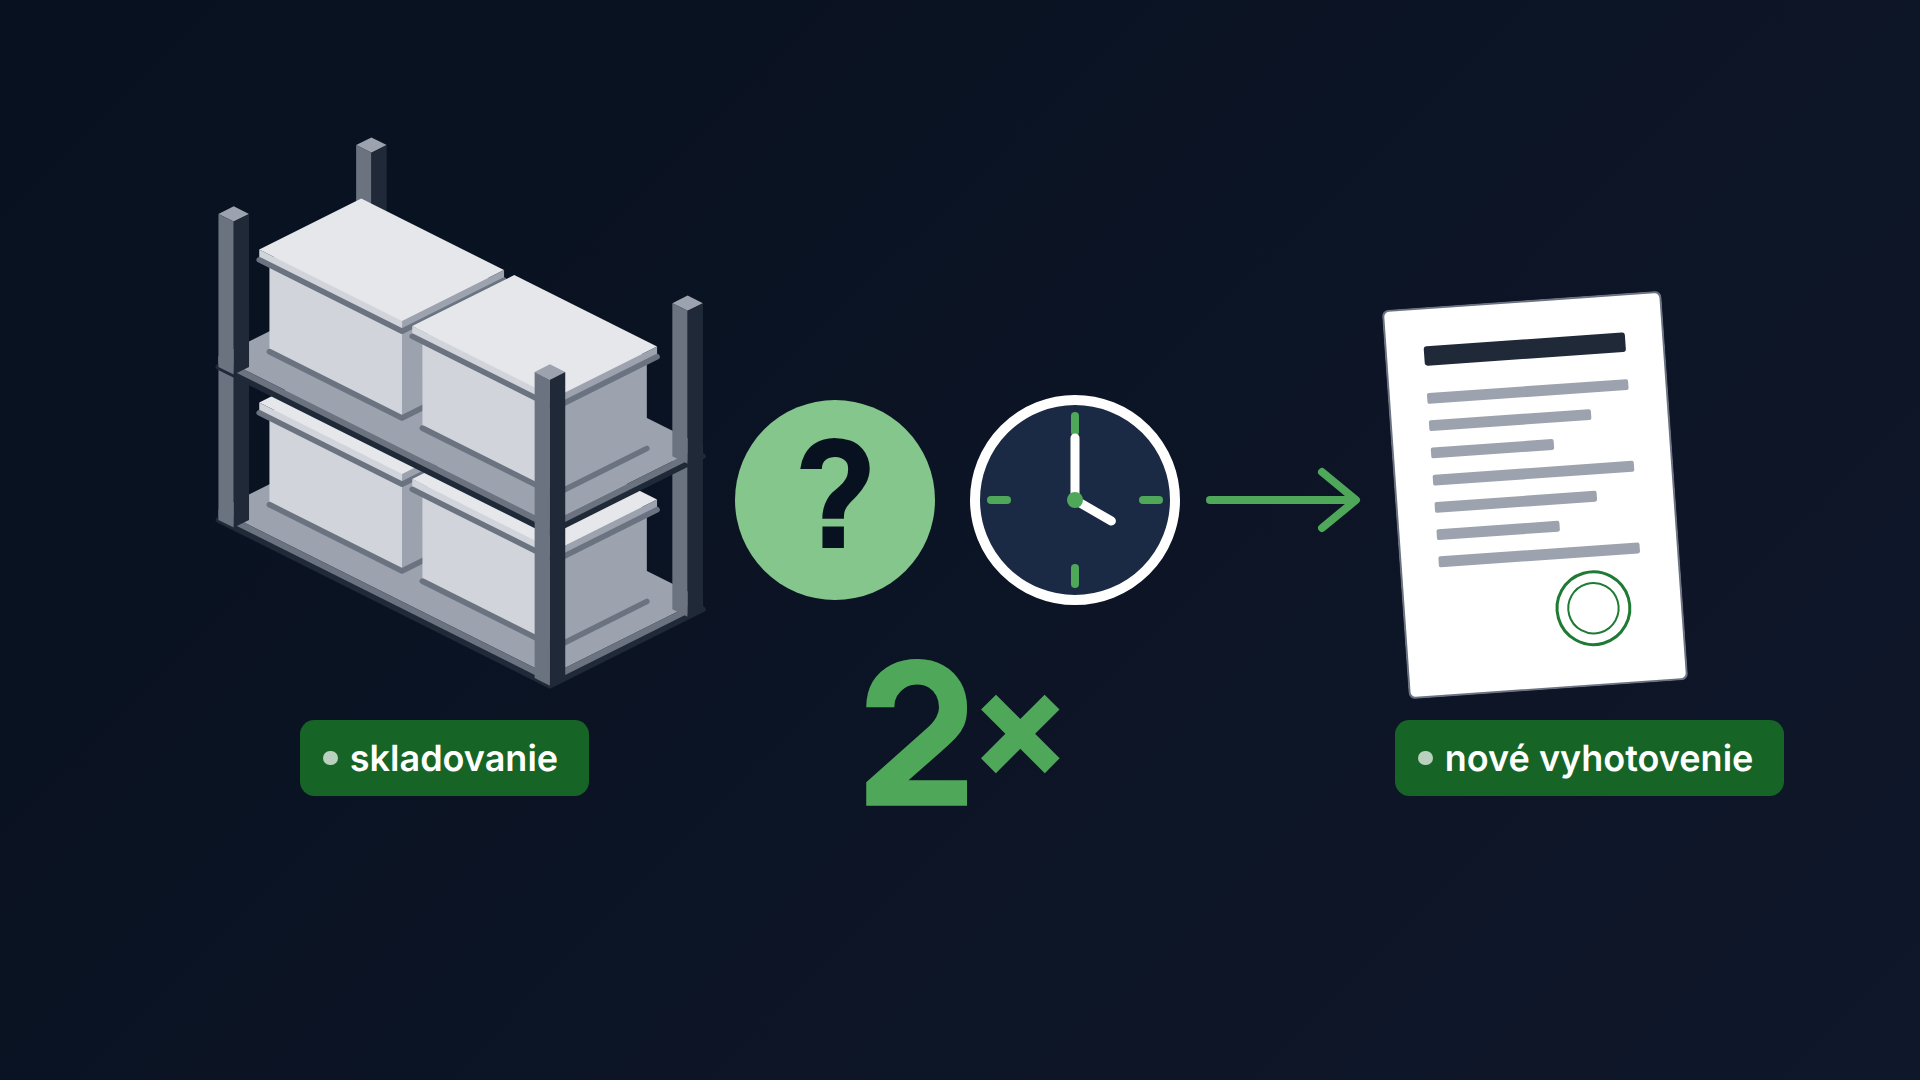
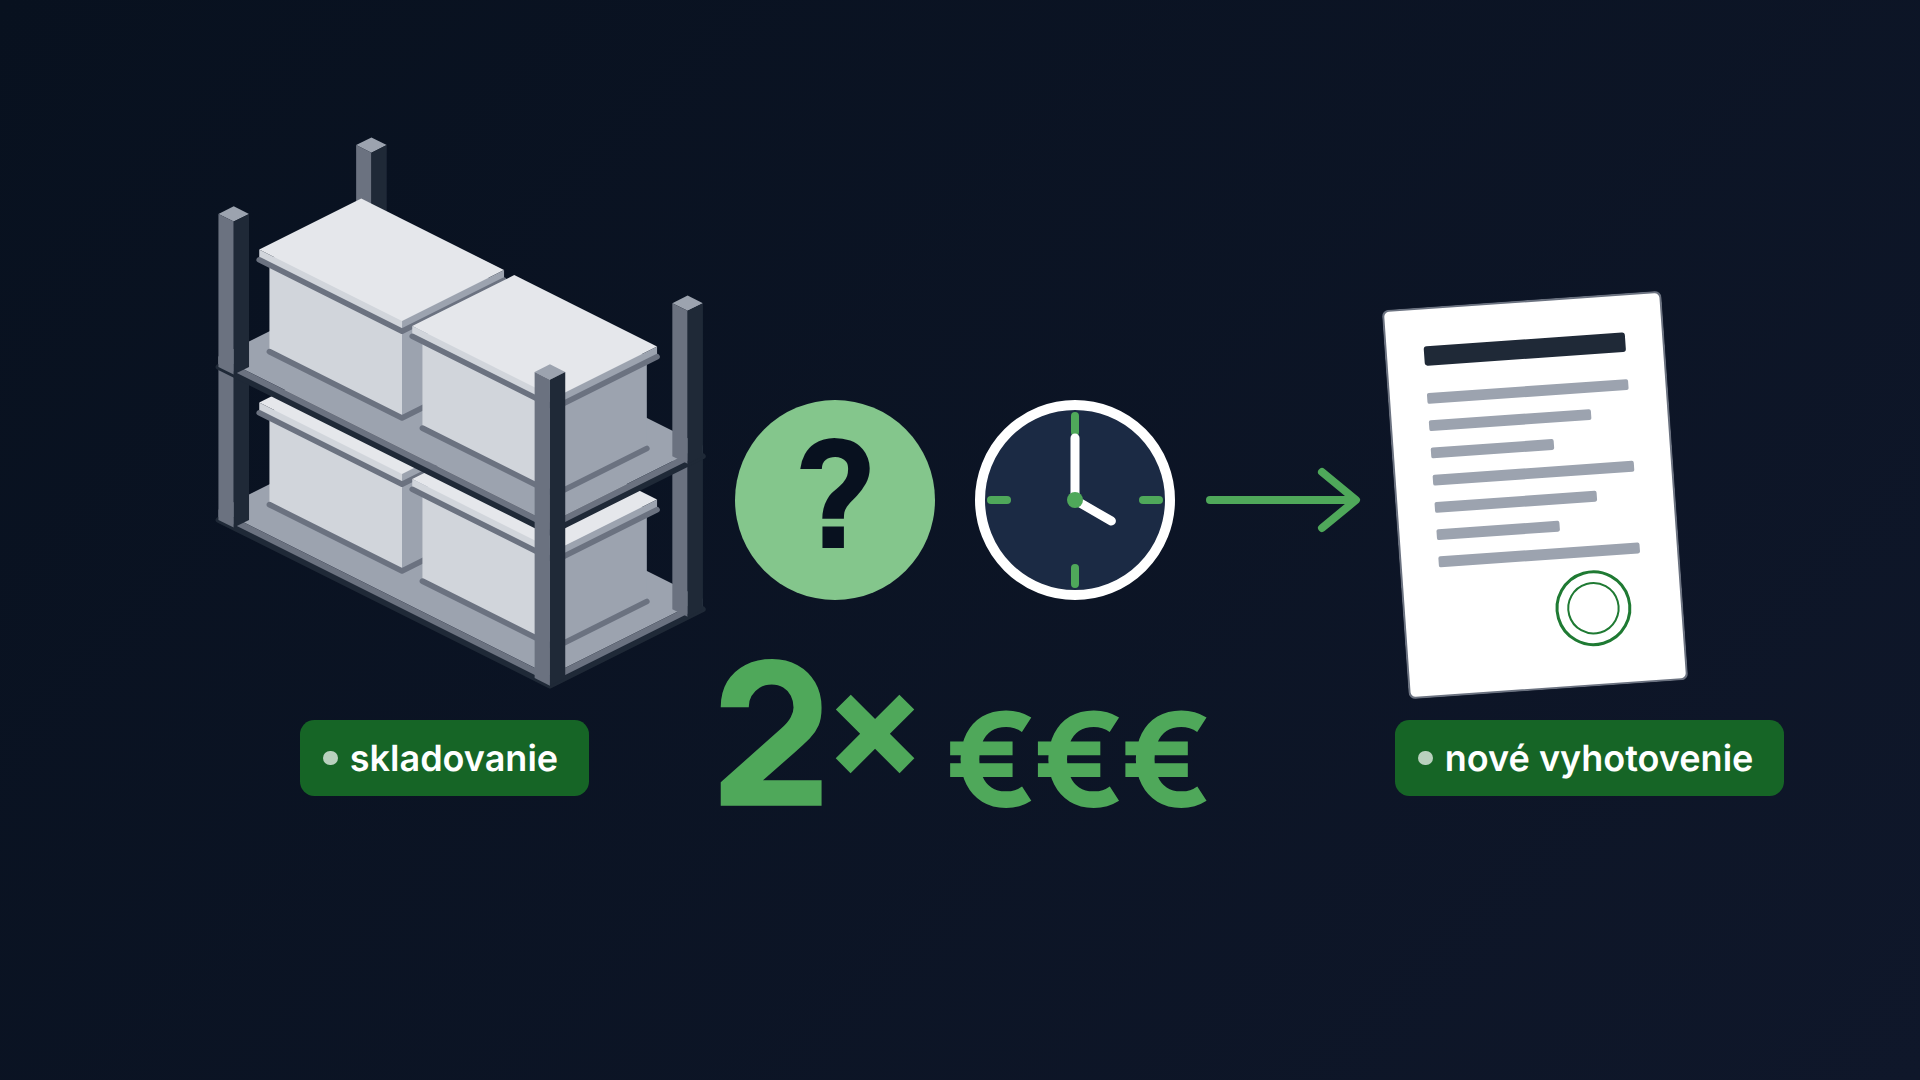
Kolo 16: C3 sklad hneď na scéne (13 s), C4 rovnaké kruhy + 2× €€€, C5 menšie QR nálepky, C7 označenia dokumentov
Claude-Session: https://claude.ai/code/session_0174g5XfE49UzAEjnWwaQFuK

diff --git a/video/src/scenes/C3_Sklad.tsx b/video/src/scenes/C3_Sklad.tsx
@@ -13,7 +13,7 @@ import { BRAND, CM, SAFE } from '../theme';
  * C3 - Sklad -> regal. Siroky zaber (regaly, palety, postavicka kluckuje
  * ulickou, cesta pod objektmi, "?"), kamera najde na policu s dvoma krabicami:
  * prva sa otvori, zlozky sa postupne vyberu a vratia, zatvori sa; to iste
- * druha; nic sa nenaslo, "?" nad regalom. Koniec = zaciatok C4. 14 s.
+ * druha; nic sa nenaslo, "?" nad regalom. Sklad je na scene hned. Koniec = zaciatok C4. 13 s.
  */
 export const SV = 1.7;
 export const VB = { x: -565, y: -100 };
@@ -85,7 +85,7 @@ export const SEARCH_QMS: [number, number, number, number][] = (() => {
   const s = TARGET_SHELF;
   const top = SHELF_LEVEL * CM.shelf.level + 4 + CM.carton.h + 4;
   const out: [number, number, number, number][] = [];
-  [7200, 10400].forEach((start, k) => {
+  [6200, 9400].forEach((start, k) => {
     const cx = s.x + 8 + k * 60 + 26,
       cy = s.y + 12 + 18;
     // jedna bublinka na krabicu, pri vytiahnuti prvej zlozky
@@ -98,8 +98,8 @@ export const C3_Sklad: React.FC = () => {
   const frame = useCurrentFrame();
   const showCap = useCaptions();
   const tw = (s: number, d: number) => tween(frame, s, d);
-  const appear = settle(frame, 400);
-  const walk = tw(1500, 4500);
+  const appear = tw(0, 300);
+  const walk = tw(600, 4500);
   const seg = Math.min(PATH.length - 2, Math.floor(walk * (PATH.length - 1)));
   const lt = walk * (PATH.length - 1) - seg;
   const px = PATH[seg][0] + (PATH[seg + 1][0] - PATH[seg][0]) * lt;
@@ -108,13 +108,13 @@ export const C3_Sklad: React.FC = () => {
   const walked: [number, number][] = [...PATH.slice(0, seg + 1), [px, py]];
   const pathD = walked.map(([x, y], i) => `${i ? 'L' : 'M'}${iso(x, y, 0).join(' ')}`).join(' ');
   const qm: [number, number, number, number][] = [
-    [140, 60, 2600, 0],
-    [420, 60, 4200, 80],
+    [140, 60, 1700, 0],
+    [420, 60, 3300, 80],
   ];
-  const others = 1 - tw(6800, 500); // vsetko okrem cieloveho regalu zmizne
-  const A = searchBox(tw, 7200);
-  const B = searchBox(tw, 10400);
-  const qEnd = pop(frame, 13300);
+  const others = 1 - tw(5800, 500); // vsetko okrem cieloveho regalu zmizne
+  const A = searchBox(tw, 6200);
+  const B = searchBox(tw, 9400);
+  const qEnd = pop(frame, 12300);
 
   const Stack: React.FC<{ x: number; y: number }> = ({ x, y }) => (
     <g>
@@ -129,14 +129,14 @@ export const C3_Sklad: React.FC = () => {
 
   return (
     <Scene mode="dark">
-      <Camera keys={[{ ms: 6000, x: 0, y: 0, scale: 1 }, { ms: 8000, ...CAM_END }]}>
+      <Camera keys={[{ ms: 5000, x: 0, y: 0, scale: 1 }, { ms: 7000, ...CAM_END }]}>
         <svg width={1920} height={1080} viewBox={`${VB.x} ${VB.y} ${1920 / SV} ${1080 / SV}`} style={{ position: 'absolute', left: 0, top: 0, opacity: appear, transform: `translateY(${(1 - appear) * 30}px)` }}>
           <g opacity={others}>
             <Floor x={-60} y={-60} w={560} d={560} fill="#263246" edge="#131F31" />
             <path d={pathD} fill="none" stroke={BRAND[300]} strokeWidth={2.4} strokeDasharray="6 8" strokeLinecap="round" strokeLinejoin="round" opacity={0.9} />
           </g>
           {SHELVES.map((s, i) => {
-            const t = settle(frame, 600 + i * 140);
+            const t = 1; // sklad je na scene hned (ako kancelaria v C2)
             const isTarget = s === TARGET_SHELF;
             return (
               <g key={i} transform={`translate(0 ${(1 - t) * -30})`} opacity={t * (isTarget ? 1 : others)}>
@@ -172,7 +172,7 @@ export const C3_Sklad: React.FC = () => {
           })}
           <g opacity={others}>
             {PALLETS.map((p, i) => {
-              const t = settle(frame, 1000 + i * 140);
+              const t = 1;
               return (
                 <g key={i} transform={`translate(0 ${(1 - t) * -30})`} opacity={t}>
                   <Stack x={p.x} y={p.y} />
@@ -180,19 +180,19 @@ export const C3_Sklad: React.FC = () => {
               );
             })}
             {qm.map(([x, y, s0, z], i) => {
-              const s = pop(frame, s0) * (1 - tw(6000, 600));
+              const s = pop(frame, s0) * (1 - tw(5000, 600));
               const [qx, qy] = iso(x, y, 140 + z);
               return <QuestionMark key={i} x={qx} y={qy} s={s * 1.8} />;
             })}
           </g>
-          <Person x={sx} y={sy} scale={1.4} color={BRAND[400]} opacity={tw(1400, 300) * (1 - tw(6500, 800))} />
+          <Person x={sx} y={sy} scale={1.4} color={BRAND[400]} opacity={tw(500, 300) * (1 - tw(5500, 800))} />
         </svg>
       </Camera>
 
       {showCap ? (
         <>
-          <Caption text={captions.C3a} mode="dark" t={settle(frame, 4000)} out={tw(6300, 300)} y={SAFE.captionY} />
-          <Caption text={captions.C3b} mode="dark" t={settle(frame, 11500)} y={SAFE.captionY} />
+          <Caption text={captions.C3a} mode="dark" t={settle(frame, 3000)} out={tw(5300, 300)} y={SAFE.captionY} />
+          <Caption text={captions.C3b} mode="dark" t={settle(frame, 10500)} y={SAFE.captionY} />
         </>
       ) : null}
     </Scene>

diff --git a/video/src/scenes/C7_Hierarchia.tsx b/video/src/scenes/C7_Hierarchia.tsx
@@ -62,7 +62,7 @@ export const C7_Hierarchia: React.FC = () => {
   const bigTop = SAFE.illoTop - 40 + (nodeTop - (SAFE.illoTop - 40)) * zoomOut;
 
   const sib = [[], [-SIB, SIB], [-SIB, SIB], [-SIB, SIB]];
-  const Node: React.FC<{ level: number; x: number; y: number; main?: boolean; t: number; q: number }> = ({ level, x, y, main, t, q }) => {
+  const Node: React.FC<{ level: number; x: number; y: number; main?: boolean; t: number; q: number; docId?: string }> = ({ level, x, y, main, t, q, docId }) => {
     const dim = main ? 1 : 0.55 + 0.45 * (1 - glow);
     return (
       <g transform={`translate(${x} ${y}) translate(0 ${(1 - t) * -20})`} opacity={t * dim}>
@@ -117,6 +117,10 @@ export const C7_Hierarchia: React.FC = () => {
             <g>
               <IsoBox x={-10} y={-15} z={0} w={21} d={30} h={1} faces={{ top: '#fff', left: ISO.right, right: ISO.edge }} />
               <QrOnLeftFace x={-4} y={15} z={-3} size={8} s={q} />
+              {/* oznacenie dokumentu */}
+              <text x={0} y={46} textAnchor="middle" fontFamily="ui-monospace, Menlo, monospace" fontSize={18} fill={INK[500]} opacity={q}>
+                {docId}
+              </text>
             </g>
           )}
         </g>
@@ -145,9 +149,9 @@ export const C7_Hierarchia: React.FC = () => {
             i === 1 ? null : (
               <g key={i}>
                 {sib[i].map((dx, k) => (
-                  <Node key={k} level={i} x={NODE_X + dx} y={ny} t={lvl(i)} q={qr(i) * 0.9} />
+                  <Node key={k} level={i} x={NODE_X + dx} y={ny} t={lvl(i)} q={qr(i) * 0.9} docId={['DK_06', 'DK_08'][k]} />
                 ))}
-                <Node level={i} x={NODE_X} y={ny} main t={lvl(i)} q={qr(i)} />
+                <Node level={i} x={NODE_X} y={ny} main t={lvl(i)} q={qr(i)} docId="DK_07" />
               </g>
             ),
           )}

diff --git a/video/src/scenes/C4_Cena.tsx b/video/src/scenes/C4_Cena.tsx
@@ -56,7 +56,7 @@ export const C4_Cena: React.FC = () => {
       </svg>
       {/* hodiny v strede medzery medzi regalom a vykresom */}
       <svg width={240} height={240} viewBox="-120 -120 240 240" style={{ position: 'absolute', left: 955, top: 380, opacity: clock, transform: `scale(${0.6 + 0.4 * clock})` }}>
-        <circle r={100} fill="#1B2A44" stroke="#fff" strokeWidth={10} />
+        <circle r={95} fill="#1B2A44" stroke="#fff" strokeWidth={10} />
         {[0, 90, 180, 270].map((a) => (
           <line key={a} x1={0} y1={-84} x2={0} y2={-68} stroke={BRAND[400]} strokeWidth={8} strokeLinecap="round" transform={`rotate(${a})`} />
         ))}
@@ -79,9 +79,10 @@ export const C4_Cena: React.FC = () => {
       <div style={{ position: 'absolute', left: 1395, top: 720 }}>
         <PriceTag text="nové vyhotovenie" s={tagB} color={BRAND[700]} size={36} />
       </div>
-      {/* 2x dole v strede, medzi cenovkami */}
-      <div style={{ position: 'absolute', left: 0, right: 0, top: 640, textAlign: 'center', opacity: big, transform: `scale(${0.6 + 0.4 * big})` }}>
+      {/* 2x €€€ dole v strede, medzi cenovkami */}
+      <div style={{ position: 'absolute', left: 0, right: 0, top: 640, textAlign: 'center', opacity: big, transform: `scale(${0.6 + 0.4 * big})`, whiteSpace: 'nowrap' }}>
         <span style={{ fontFamily: FONT.display, fontWeight: 800, fontSize: 200, lineHeight: 0.9, color: BRAND[400], letterSpacing: '-0.04em' }}>2×</span>
+        <span style={{ fontFamily: FONT.display, fontWeight: 800, fontSize: 130, lineHeight: 0.9, color: BRAND[400], letterSpacing: '-0.02em', marginLeft: 28 }}>€€€</span>
       </div>
       {showCap ? <Caption text={captions.C4} mode="dark" t={settle(frame, 5800)} y={SAFE.captionY} /> : null}
     </Scene>

diff --git a/video/src/scenes/C5_Teren.tsx b/video/src/scenes/C5_Teren.tsx
@@ -2,7 +2,7 @@ import React from 'react';
 import { useCurrentFrame } from 'remotion';
 import { Scene, useCaptions } from '../components/Scene';
 import { Caption } from '../components/Text';
-import { ArchiveBox, archiveBoxPxPerCm } from '../components/ArchiveBox';
+import { ArchiveBox, archiveBoxPxPerCm, QR_SCALE } from '../components/ArchiveBox';
 import { PhoneFrame } from '../components/Device';
 import { Camera } from '../lib/camera';
 import { pop, settle, tween } from '../lib/anim';
@@ -137,7 +137,7 @@ export const C5_Teren: React.FC = () => {
           const x = (1 - t) * (1 - t) * ax + 2 * (1 - t) * t * cx + t * t * bx;
           const y = (1 - t) * (1 - t) * ay + 2 * (1 - t) * t * cy + t * t * by;
           const size0 = 36 * sc,
-            size1 = (f.size / 240) * BOX * 1.1;
+            size1 = (f.size / 240) * BOX * 1.1 * QR_SCALE;
           const size = size0 + (size1 - size0) * t;
           return (
             <svg key={i} width={size} height={size} viewBox="0 0 36 36" style={{ position: 'absolute', left: x - size / 2, top: y - size / 2, transform: `rotate(${-8 + 8 * t}deg)`, filter: 'drop-shadow(0 4px 6px rgba(0,0,0,0.18))' }}>

diff --git a/video/src/components/ArchiveBox.tsx b/video/src/components/ArchiveBox.tsx
@@ -28,6 +28,9 @@ export const archiveBoxOpen: ArchiveBoxState = { lid: 1, binders: [1, 1, 1], qr:
  * a tri finder stvorce v rohoch - aby aj laik na prvy pohlad videl QR.
  * Finder stvorce sa odvodzuju z nalepky: p0..p3 = rohy stvoruholnika.
  */
+/** Mierka nalepky QR na krabici/zlozkach, aby zodpovedala bunke harku A4 (~3,6 cm). */
+export const QR_SCALE = 0.62;
+
 const Qr: React.FC<{ s: number; cx: number; cy: number; accent: string; paths: string[] }> = ({ s, cx, cy, paths }) => {
   const nums = paths[0].match(/-?[\d.]+/g)!.map(Number);
   const P: [number, number][] = [
@@ -51,7 +54,7 @@ const Qr: React.FC<{ s: number; cx: number; cy: number; accent: string; paths: s
     [0.08, 0.62],
   ];
   return (
-    <g opacity={Math.min(1, s * 1.3)} transform={`translate(${cx} ${cy}) scale(${s}) translate(${-cx} ${-cy})`}>
+    <g opacity={Math.min(1, s * 1.3)} transform={`translate(${cx} ${cy}) scale(${s * QR_SCALE}) translate(${-cx} ${-cy})`}>
       <path fill="#fff" stroke={ISO.edge} strokeWidth={0.8} d={paths[0]} />
       {finders.map(([u, v], i) => (
         <g key={i}>

diff --git a/video/src/scenesList.ts b/video/src/scenesList.ts
@@ -17,7 +17,7 @@ export type SceneDef = { component: React.FC; seconds: number; stills: number[] 
 export const SCENE_LIST: [string, SceneDef][] = [
   ['C1-Intro', { component: C1_Intro, seconds: 5, stills: [45, 75, 125] }],
   ['C2-Kancelaria', { component: C2_Kancelaria, seconds: 8, stills: [50, 110, 230] }],
-  ['C3-Sklad', { component: C3_Sklad, seconds: 14, stills: [120, 260, 410] }],
+  ['C3-Sklad', { component: C3_Sklad, seconds: 13, stills: [90, 230, 380] }],
   ['C4-Cena', { component: C4_Cena, seconds: 9, stills: [10, 110, 250] }],
   ['C5-Teren', { component: C5_Teren, seconds: 10, stills: [70, 170, 285] }],
   ['C6-Spracovanie', { component: C6_Spracovanie, seconds: 7, stills: [40, 110, 200] }],

diff --git a/video/STORYBOARD.md b/video/STORYBOARD.md
@@ -1,4 +1,4 @@
-# Storyboard – Assetin Archives (kolo 15)
+# Storyboard – Assetin Archives (kolo 16)
 
 Stav: ☐ still na schválenie · ☑ still schválený · ▶ animácia hotová · 🎞 finálne MP4
 
@@ -13,15 +13,15 @@ strihový bod pre footage; náhľad Full má tvrdé strihy. Titulky v obraze sú
 |---|---|---|---|---|---|---|
 | C1-Intro | Intro | navy | Lockup podľa assetin-design-kitu: stohovaný logotyp „assetin“ / „.space“ vypláva, zvislý oddeľovač sa nakreslí, „Archives“ vyjde spoza neho; hold; „Archives“ sa zasunie späť, oddeľovač sa stiahne, logotyp sa priblíži a vybledne do navy | – | 5 s | ☐ ▶ |
 | C2-Kancelaria | Skriňa pri stole | navy | Zelený panáčik príde ku skrini (stolička pred stolom), otvorí krídlo (otáča sa okolo pántu), vnútri šanóny so štítkami, rolky, listy; hľadá („?“ nad hlavou sa jemne vznášajú), vyhadzuje veci – šanón so štítkom, rolka a papiere vyletia oblúkom a dopadnú pred skriňou | 3 s „Dokumentáciu máte. Nikto ju nevie nájsť.“ | 8 s | ☐ ▶ |
-| C3-Sklad | Sklad → regál | navy | Zelená postavička klučkuje uličkou (cesta pod objektmi) a zastaví pred stredným regálom, dva „?“; kamera nájde na jeho hornú policu s dvoma krabicami (regál bez vrchnej dosky, vidno do krabíc), sklad vybledne; prvá krabica: veko sa odklopí, vidno dno a zložky vnútri, zložky sa postupne vyberú a vrátia (pri prvej zložke vyletí bublinka „?“ a zanikne), veko dole; to isté druhá; nič sa nenašlo, väčší „?“ | 4 s „V sklade to nie je lepšie.“ · 11,5 s „Je to niekde tam.“ | 14 s | ☐ ▶ |
-| C4-Cena | 2× | navy | Začína rovnakým regálom ako koniec C3; regál sa odsunie doľava, vedľa neho veľký „?“, vedľa hodiny rovnakej veľkosti s točiacou sa ručičkou (hľadanie trvá), šípka k výkresu s pečiatkou (rýchlejšie spraviť nanovo); veľké cenovky pod regálom a výkresom; „2×“ dole v strede | 5,8 s „Zaplatené dvakrát za tú istú dokumentáciu.“ | 9 s | ☐ ▶ |
+| C3-Sklad | Sklad → regál | navy | Sklad je na scéne hneď; zelená postavička klučkuje uličkou (cesta pod objektmi) a zastaví pred stredným regálom, dva „?“; kamera nájde na jeho hornú policu s dvoma krabicami (regál bez vrchnej dosky, vidno do krabíc), sklad vybledne; prvá krabica: veko sa odklopí, vidno dno a zložky vnútri, zložky sa postupne vyberú a vrátia (pri prvej zložke vyletí bublinka „?“ a zanikne), veko dole; to isté druhá; nič sa nenašlo, väčší „?“ | 3 s „V sklade to nie je lepšie.“ · 10,5 s „Je to niekde tam.“ | 13 s | ☐ ▶ |
+| C4-Cena | 2× | navy | Začína rovnakým regálom ako koniec C3; regál sa odsunie doľava, vedľa neho veľký „?“, vedľa hodiny rovnakej veľkosti s točiacou sa ručičkou (hľadanie trvá), šípka k výkresu s pečiatkou (rýchlejšie spraviť nanovo); veľké cenovky pod regálom a výkresom; „2× €€€“ dole v strede | 5,8 s „Zaplatené dvakrát za tú istú dokumentáciu.“ | 9 s | ☐ ▶ |
 | C5-Teren →📹 | V sklade | biela | Zatvorená krabica, priletí hárok nálepiek A4, z neho odletí QR na krabicu; veko sa otvorí, zložky vyjdú a z hárku priletia QR na každú zložku; zložky majú štítky s textom; predná sa vytiahne z krabice, mobil sa k nej priblíži a zameria na štítok, blesk, ID ZL_12; kamera nájde na zložku s mobilom a potom nájazd do displeja → biely frame = strih do reality (footage fotenia štítku) | 5 s „Nalepiť QR, odfotiť. Celá práca v teréne.“ | 10 s | ☐ ▶ |
 | C6-Spracovanie →📹 (?) | Fotka → aplikácia | biela | Bez zmeny; možno vypadne a footage pôjde rovno za C5 | 3 s „Text z fotky rozpozná a navrhne údaje.“ | 7 s | ☐ ▶ |
 | C7-Hierarchia →📹 | Hierarchia + sken | biela | Začína tou istou krabicou ako C5 (KR_01), kamera sa oddiali, vedľa sa objavia dve rovnaké krabice s medzerou a KR_01 sa do nej zaradí; nad ňou vyrastie prázdna polica (2 rady), pod ňou zložky a dokumenty; mobil naskenuje krabicu, vetva sa zvýrazní zelenou čiarou; kamera nájde späť na policu, krabice sa do nej poukladajú (všetky s menším QR); mobil vľavo hľadá a nájde KR_01 – tá krabica sa zvýrazní (obrys, značka), ostatné stmavnú; strom vybledne, mobil nájde na celý frame → footage | 3 s „Každá položka má svoje miesto.“ | 12 s | ☐ ▶ |
 | C8-Pilot | Jedna krabica | biela | Bez zmeny (upraví sa neskôr) | 2 s „Začneme jednou krabicou.“ | 7 s | ☐ ▶ |
 | C9-Outro | Outro | zelená | Logo, wordmark, „Assetin, s. r. o.“, web. Bez kontaktov | – | 5 s | ☐ ▶ |
 
-Celkovo 77 s animácie + footage podľa strihu.
+Celkovo 76 s animácie + footage podľa strihu.
 
 ## Stills a kontrola
 
@@ -45,7 +45,7 @@ S04-Pokusy (Excel a skener), S10-Nasadenie (U nás / U vás) vo Folder „Option
 - kolo 1: „vyzerá ako prezentácia, priveľa textu, nie je miesto na footage“ → kolo 2.
 - kolo 2: „mierka ikon nesedí, chýba kancelária, texty sa prekrývajú s ikonami, simulácia UI je zbytočná (príde footage), zelené QR, presahy medzi scénami“ → kolo 3 (tento stav).
 - kolo 3 + oprava QR/kancelárie: schválené → Fáza 2 (finálne MP4).
-- kolo 4 až 15 (pripomienky z review stránky, viď FEEDBACK.md): zapracované; nové MP4 na review stránke.
+- kolo 4 až 16 (pripomienky z review stránky, viď FEEDBACK.md): zapracované; nové MP4 na review stránke.
 
 ## Review stránka
 
@@ -61,7 +61,7 @@ Všetko 1920×1080, 30 fps, H.264, yuv420p (obmedzený rozsah), bez zvuku.
 | Súbor | Obsah |
 |---|---|
 | `out/mp4/C1-Intro.mp4` … `C9-Outro.mp4` | klipy bez textu v obraze (titulky vypnuté, doriešia sa neskôr) |
-| `out/mp4/Full_1080p.mp4` | všetkých 9 klipov za sebou, tvrdé strihy, 77 s – kontrola tempa |
+| `out/mp4/Full_1080p.mp4` | všetkých 9 klipov za sebou, tvrdé strihy, 76 s – kontrola tempa |
 | `out/mp4/Full_preview_540p.mp4` | to isté v polovičnom rozlíšení |
 | `out/mp4/F_phone_enter.mp4`, `F_window_enter.mp4` | placeholder rámika zariadenia (8 s), do ktorého sa v Remotione dá vložiť footage |
 | `out/stills/contact-sheet.png` | stredný frame každého klipu v mriežke |

diff --git a/video/FEEDBACK.md b/video/FEEDBACK.md
@@ -97,3 +97,12 @@
 | Klip | Pripomienka (skrátene) | Riešenie |
 |---|---|---|
 | C5 Terén | Na zložkách má byť vidieť text; po vytiahnutí má mobil namieriť na zložku, záber, a potom strih do reality. | Každá zložka má na prednej ploche štítok s textom (PROJEKT 2018, ZMLUVY 2016, STAVBA B2); po vytiahnutí sa mobil priblíži k zložke, rámik sa zamkne na celú zložku, blesk, ID; kamera nájde na zložku s mobilom (5,8–7,4 s) a potom nájazd do displeja = strih do reality. |
+
+## Kolo 16 (21. 9. 2026, 10:06)
+
+| Klip | Pripomienka (skrátene) | Riešenie |
+|---|---|---|
+| C3 Sklad | Skrátiť úvod – sklad má byť na scéne hneď, nie postupne nabiehať. | Regály a palety sú na scéne od začiatku (krátky fade), celá os posunutá o 1 s skôr; klip 13 s (Full 76 s). |
+| C4 Cena | Kruh s otáznikom a hodiny rovnako veľké; k 2× dopísať €€€. | Hodiny majú rovnaký vonkajší priemer ako otáznik; dole v strede „2× €€€“. |
+| C5 Terén | Nalepené QR sú oveľa väčšie ako na hárku. | QR na krabici a zložkách zmenšené (mierka 0,62) na veľkosť bunky hárku; letiaca nálepka dolieta v tej istej veľkosti. Prejaví sa aj v C7/C8. |
+| C7 Hierarchia | Dokumenty nemajú označenie. | Pod dokumentmi DK_06 / DK_07 / DK_08. |
